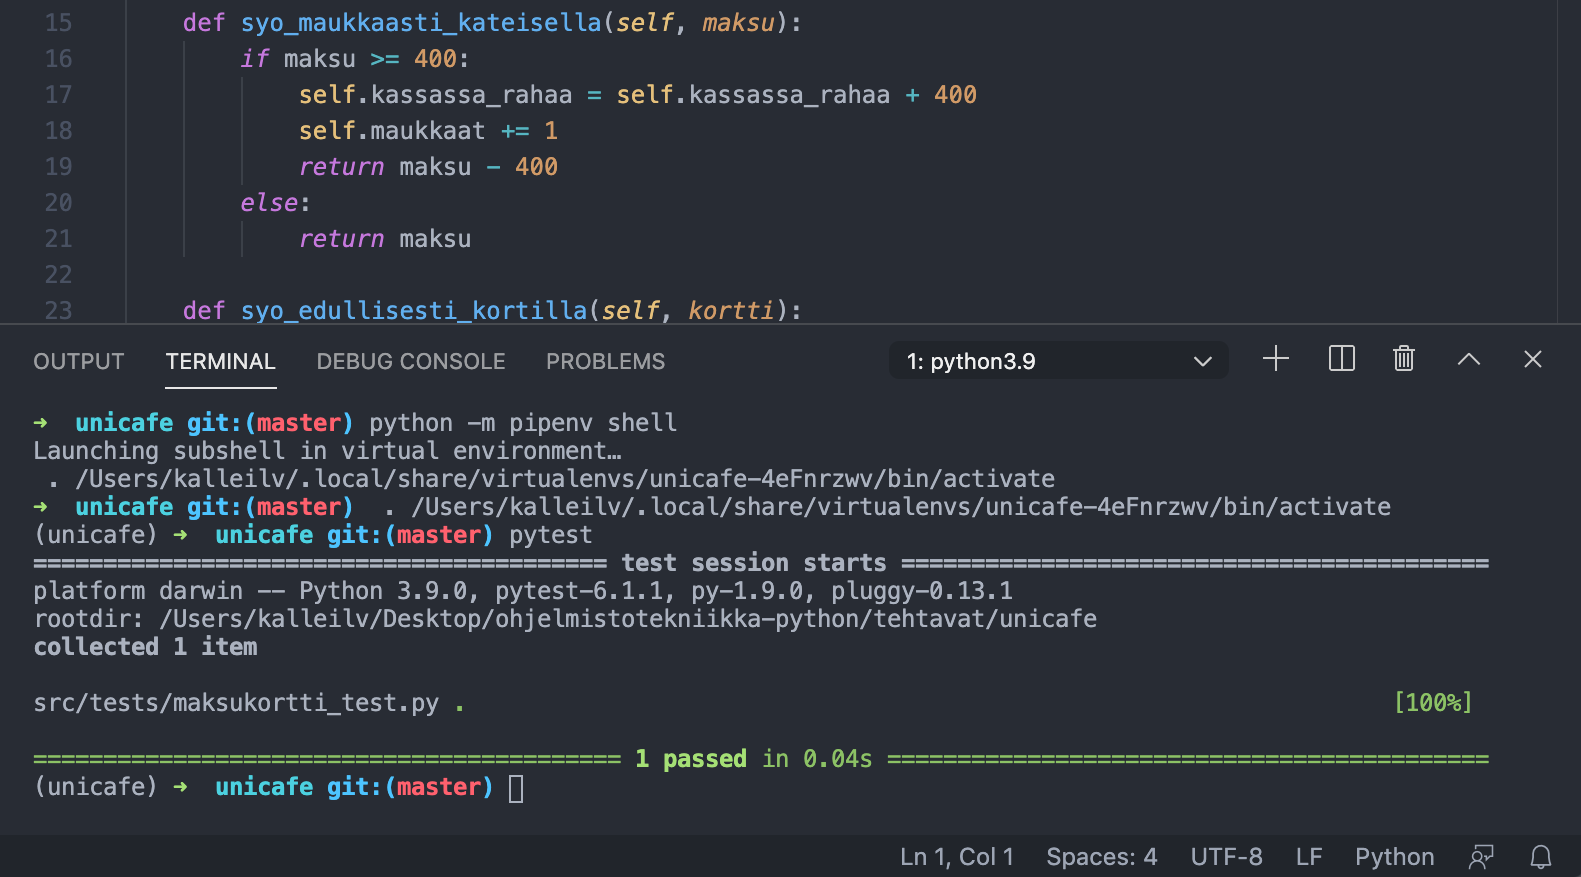
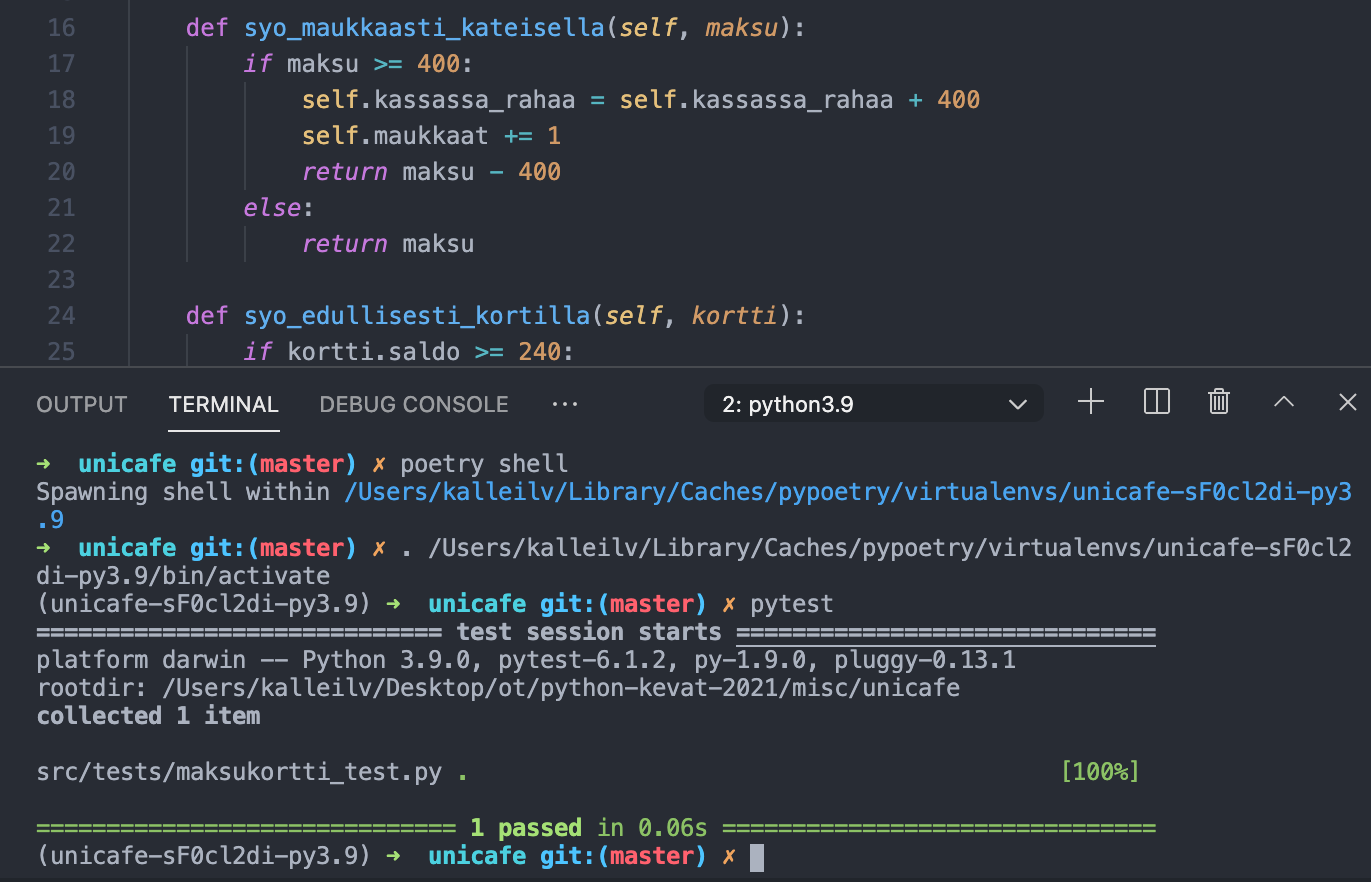
fix terminaali kuva

diff --git a/tehtavat/viikko2.md b/tehtavat/viikko2.md
@@ -244,9 +244,8 @@ Jotta `coverage`-komennon generoimat tiedostot eivät päättyisi versionhallint
 
 Visual Studio Codesta löytyy sisään rakennettu terminaali. Terminaalin saa avattua valitsemalla päävalikosta _Terminal_ ja aukeavasta alavalikosta _New Terminal_. editorin alalaitaan pitäisi ilmesty terminaali, jossa voit suorittaa komentorivikomentoja.
 
-Terminaalin avaaminen saattaa automaattisesti avata komentorivin virtuaaliympäristössä. Jos olet virtuaaliympäristössä, on komentorivin syöterivin alussa projektin nimi suluissa, esimerkiksi `(unicafe)`. Jos et ole virtuaaliympäristössä pääset siihen tutulla `poetry shell` komennolla. Tämän jälkeen voit suorittaa komentoja suoraan Visual Studio Codessa:
+Terminaalin avaaminen saattaa automaattisesti avata komentorivin virtuaaliympäristössä. Jos olet virtuaaliympäristössä, on komentorivin syöterivin alussa projektin nimi ja jokin satunnain merkkijono suluissa, esimerkiksi `(unicafe-sF0cl2di-py3.9)`. Jos et ole virtuaaliympäristössä pääset siihen tutulla `poetry shell` komennolla. Tämän jälkeen voit suorittaa komentoja suoraan Visual Studio Codessa:
 
-<!-- TODO: fix kuva -->
 ![Visual Studio Code terminaali](../materiaali/kuvat/vscode-terminaali.png)
 
 ## 4 Kassapäätteen testit
